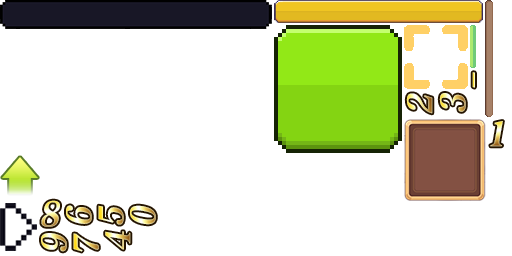
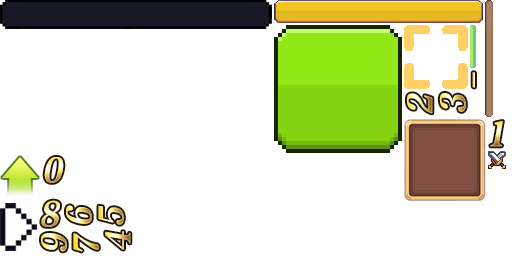
Add indicator Move & Attack

Changed region(s): [[0.0625, 0.5938, 0.1562, 0.7188], [0.25, 0.7812, 0.3125, 0.9062], [0.9375, 0.5938, 1.0, 0.6562]]

diff --git a/Assets/Scripts/Data/BattleStage.cs b/Assets/Scripts/Data/BattleStage.cs
@@ -26,15 +26,6 @@ namespace Data
             Defenders = new List<AxieHolder>();
             var charCom = homeScreen.MapContent.Character;
             var pos = mapData.GetPosStarEnd();
-            foreach (var p in pos.starts)
-            {
-                var axieAni = AxieHolder.Create(charCom, homeScreen.GetPos(p.y, p.x), gameResource.MatchResource.Attacker);
-                AxieAll[mapData.GetTileIndex(p.y, p.x)] = axieAni;
-                axieAni.FaceToRight(true);
-                axieAni.Init(AxieHolder.AxieTeam.Attack, 32);
-                axieAni.TilePos = p;
-                Attackers.Add(axieAni);
-            }
 
             foreach (var p in pos.ends)
             {
@@ -44,6 +35,16 @@ namespace Data
                 axieAni.Init(AxieHolder.AxieTeam.Defend, 16);
                 Defenders.Add(axieAni);
             }
+
+            foreach (var p in pos.starts)
+            {
+                var axieAni = AxieHolder.Create(charCom, homeScreen.GetPos(p.y, p.x), gameResource.MatchResource.Attacker);
+                AxieAll[mapData.GetTileIndex(p.y, p.x)] = axieAni;
+                axieAni.FaceToRight(true);
+                axieAni.Init(AxieHolder.AxieTeam.Attack, 32);
+                axieAni.TilePos = p;
+                Attackers.Add(axieAni);
+            }
         }
 
         public GTweener AxieAniMove(Tile start, Tile next, bool isRevert)
@@ -51,7 +52,7 @@ namespace Data
             // Update index tile cache
             AxieAll.Remove(_mapData.GetTileIndex(start.Row, start.Col), out var ani);
             AxieAll[_mapData.GetTileIndex(next.Row, next.Col)] = ani;
-            ani.FaceToPos(next.Pos.x);
+            if (!isRevert) ani.FaceToPos(next.Pos.x);
             ani.TilePos = next.Pos;
             ani.Status = AxieHolder.AxieStatus.MarkMove;
             if (!isRevert)
@@ -103,6 +104,21 @@ namespace Data
                     break;
                 default:
                     throw new ArgumentOutOfRangeException();
+            }
+        }
+
+        public AxieHolder GetAxieAt(int row, int col)
+        {
+            var axie = AxieAll[_mapData.GetTileIndex(row, col)];
+            Debug.Assert(axie.TilePos.y == row && axie.TilePos.x == col);
+            return axie;
+        }
+
+        public void HideAllAxieIndicator()
+        {
+            foreach (var axie in AxieAll.Values)
+            {
+                axie.HideIndicator();
             }
         }
     }

diff --git a/Assets/Scripts/Utility/MapDataUtil.cs b/Assets/Scripts/Utility/MapDataUtil.cs
@@ -132,19 +132,28 @@ namespace Utility
             var pos = battleStage.GetPosWithPriorityHpLow();
             var starts = pos.starts.Select(p => tileGrid.GetTile(p.y, p.x)).ToList();
             var ends = pos.ends.Select(p => tileGrid.GetTile(p.y, p.x)).ToList();
-            var moves = DoFindMultiPosToPos(starts, ends, tileGrid, mapData);
-            // Debug render
-            /*
-            for (var index = 0; index < moves.Count; index++)
+            var steps = DoFindMultiPosToPos(starts, ends, tileGrid, mapData);
+
+            // Show Indicator
+            for (var index = 0; index < steps.Count; index++)
             {
-                var move = moves[index];
-                var slotStart = (SlotMap)listSlot.GetChildAt(tileGrid.GetTileIndex(move.Start.Row, move.Start.Col));
-                var x = move.Next.Col - move.Start.Col;
-                var y = move.Next.Row - move.Start.Row;
-                slotStart.Number.text = $"{x};{y}";
+                var step = steps[index];
+                var axie = battleStage.GetAxieAt(step.Start.Row, step.Start.Col);
+                if (step.Opponent != null)
+                {
+                    axie.ShowIndicatorAttack(step.Opponent.Col - step.Start.Col, step.Opponent.Row - step.Start.Row);
+                }
+                else if (step.Next != step.Start)
+                {
+                    axie.ShowIndicatorMove(step.Next.Col - step.Start.Col, step.Next.Row - step.Start.Row);
+                }
+                else
+                {
+                    axie.HideIndicator();
+                }
             }
-            */
-            return moves;
+
+            return steps;
         }
 
         private static void ResetGridWall(this TileGrid tileGrid, MapData mapData)
@@ -294,12 +303,12 @@ namespace Utility
             {
                 Debug.Assert(Ref.Finish == false);
                 Ref.Finish = true;
-                if (Paths != null && Paths.Count == 2)
+                if (Paths is { Count: 2 })
                 {
                     Ref.Opponent = Paths.Last();
                 }
 
-                if (Paths == null || Paths.Count <= 2)
+                if (Paths is not { Count: > 2 })
                 {
                     Ref.Next = Ref.Start;
                 }

diff --git a/Assets/Scripts/Gui/SlotAxieExtension.cs b/Assets/Scripts/Gui/SlotAxieExtension.cs
@@ -4,6 +4,7 @@ using Data;
 using FairyGUI;
 using Spine.Unity;
 using UnityEngine;
+using Utility;
 
 namespace Gui
 {
@@ -142,6 +143,25 @@ namespace Gui
         public float DoAniDie()
         {
             return DoAni(AniNameHit);
+        }
+
+        public void HideIndicator()
+        {
+            AxieCom.IndicatorMove.visible = false;
+            AxieCom.IconAttack.visible = false;
+        }
+
+        public void ShowIndicatorMove(int x, int y)
+        {
+            AxieCom.IndicatorMove.visible = true;
+            AxieCom.IndicatorMove.rotation = Util.VToAngle(x, y);
+        }
+
+        public void ShowIndicatorAttack(int x, int y)
+        {
+            AxieCom.IconAttack.visible = true;
+            // AxieCom.IconAttack.Center();
+            // AxieCom.IconAttack.xy += new Vector2(x, y) * 10;
         }
 
         private float DoAni(string animationName)

diff --git a/Assets/Scripts/Utility/Util.cs b/Assets/Scripts/Utility/Util.cs
@@ -7,7 +7,7 @@ using UnityEngine.Networking;
 
 namespace Utility
 {
-    public static class Utility
+    public static class Util
     {
         public static bool IsNullOrEmpty(this string str)
         {
@@ -52,6 +52,21 @@ namespace Utility
             obj.visible = true;
             obj.alpha = 1;
             obj.TweenFade(1, 0.25f).SetDelay(delay).OnComplete(() => { obj.visible = false; });
+        }
+
+        public static int VToAngle(int x, int y)
+        {
+            return x switch
+            {
+                > 0 => 90,
+                < 0 => 270,
+                _ => y switch
+                {
+                    > 0 => 180,
+                    < 0 => 0,
+                    _ => 0
+                }
+            };
         }
     }
 

diff --git a/Assets/Resources/Gui/Gui/AxieCom.cs b/Assets/Resources/Gui/Gui/AxieCom.cs
@@ -10,6 +10,7 @@ namespace Gui
         public IndicatorMove IndicatorMove;
         public GGraph Image;
         public BarHp BarHp;
+        public GImage IconAttack;
         public const string URL = "ui://rbw1tvvvprmnr4";
 
         public static AxieCom CreateInstance()
@@ -24,6 +25,7 @@ namespace Gui
             IndicatorMove = (IndicatorMove)GetChildAt(0);
             Image = (GGraph)GetChildAt(1);
             BarHp = (BarHp)GetChildAt(2);
+            IconAttack = (GImage)GetChildAt(3);
         }
     }
 }

diff --git a/Assets/Scripts/Data/GameStage.cs b/Assets/Scripts/Data/GameStage.cs
@@ -47,6 +47,7 @@ namespace Data
                 return;
             }
 
+            _battleStage.HideAllAxieIndicator();
             _revertAble.Pop().Do(onComplete);
         }
 
@@ -54,6 +55,7 @@ namespace Data
         {
             TaskUtil.CallAwait(async () =>
             {
+                _battleStage.HideAllAxieIndicator();
                 var doRevert = new List<Func<GTweener>>();
                 // Move
                 await DoMoveStep(doRevert);
